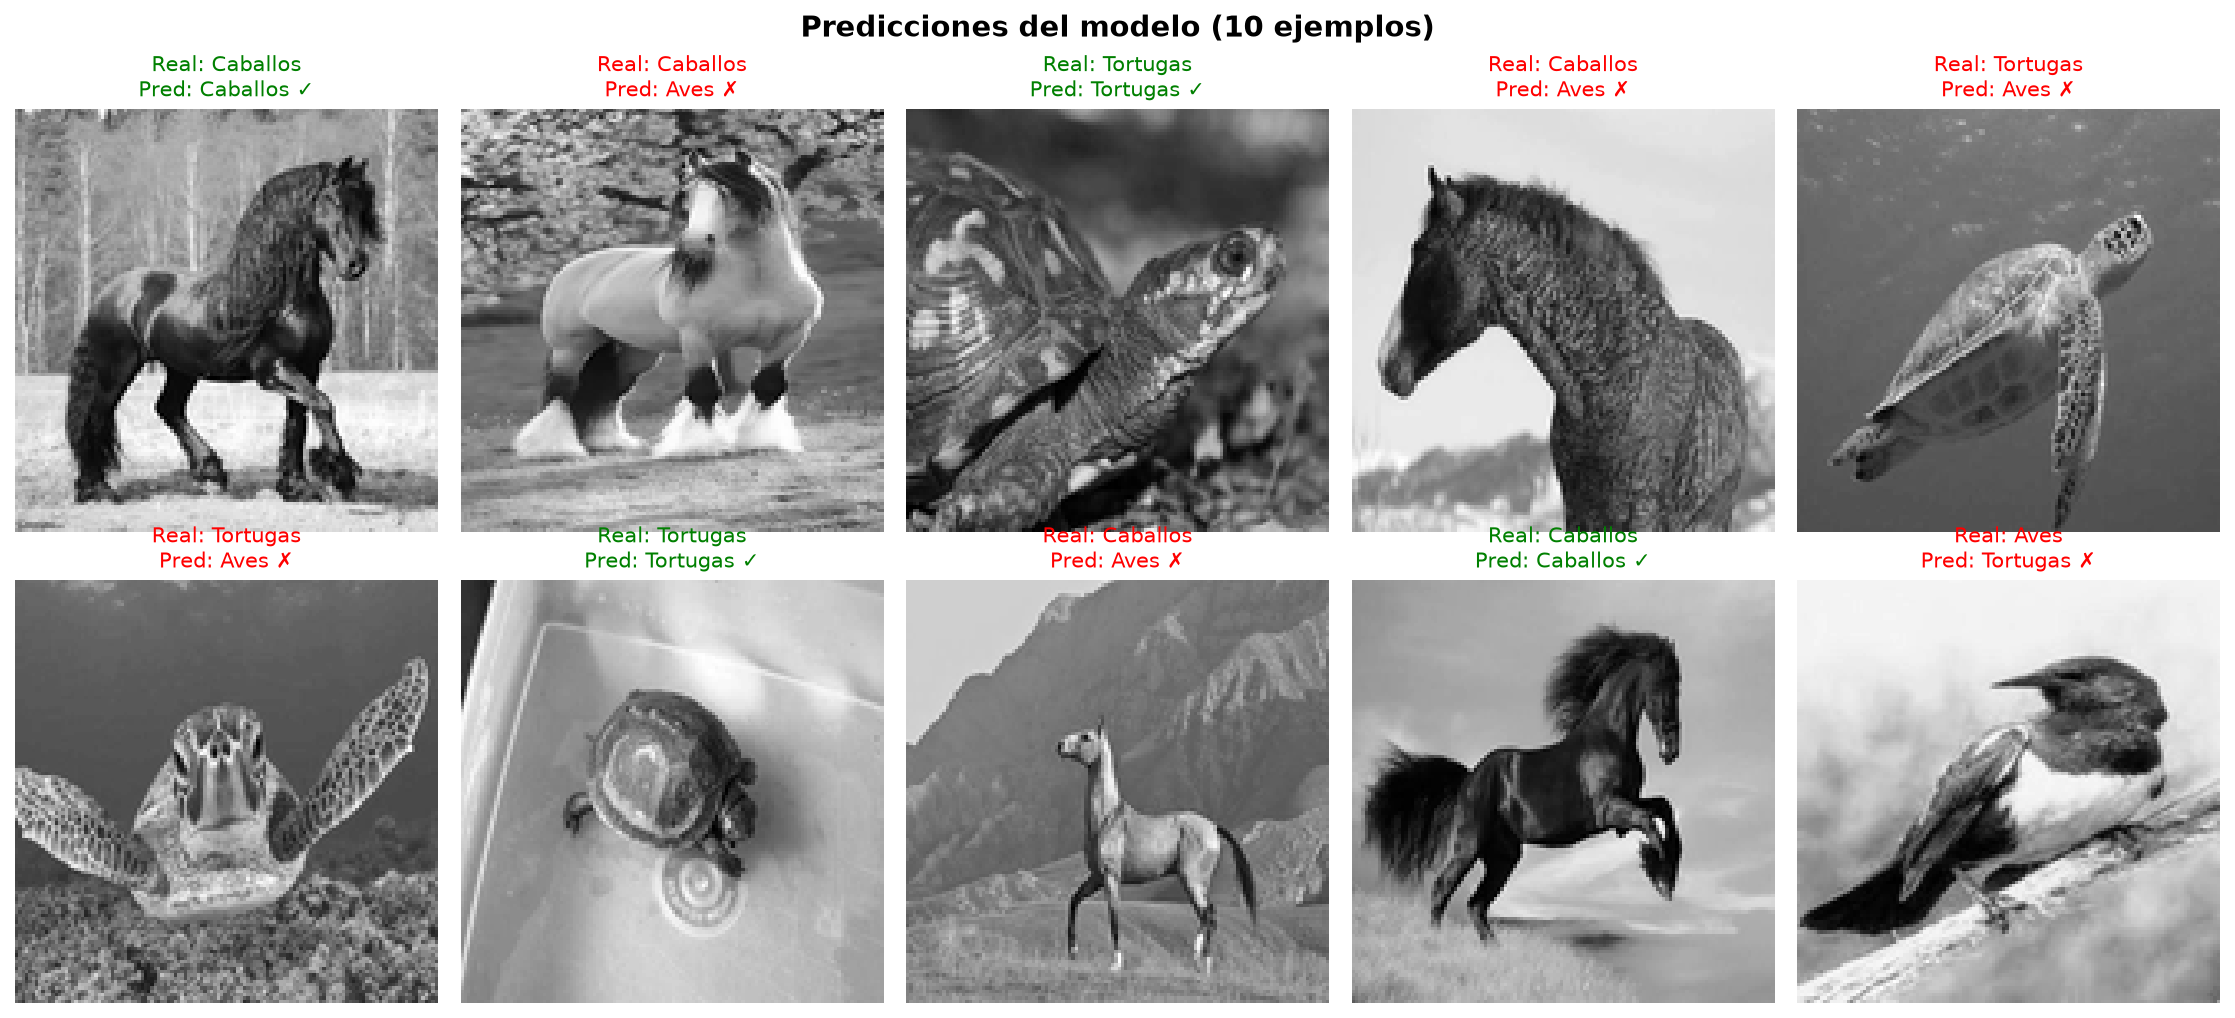
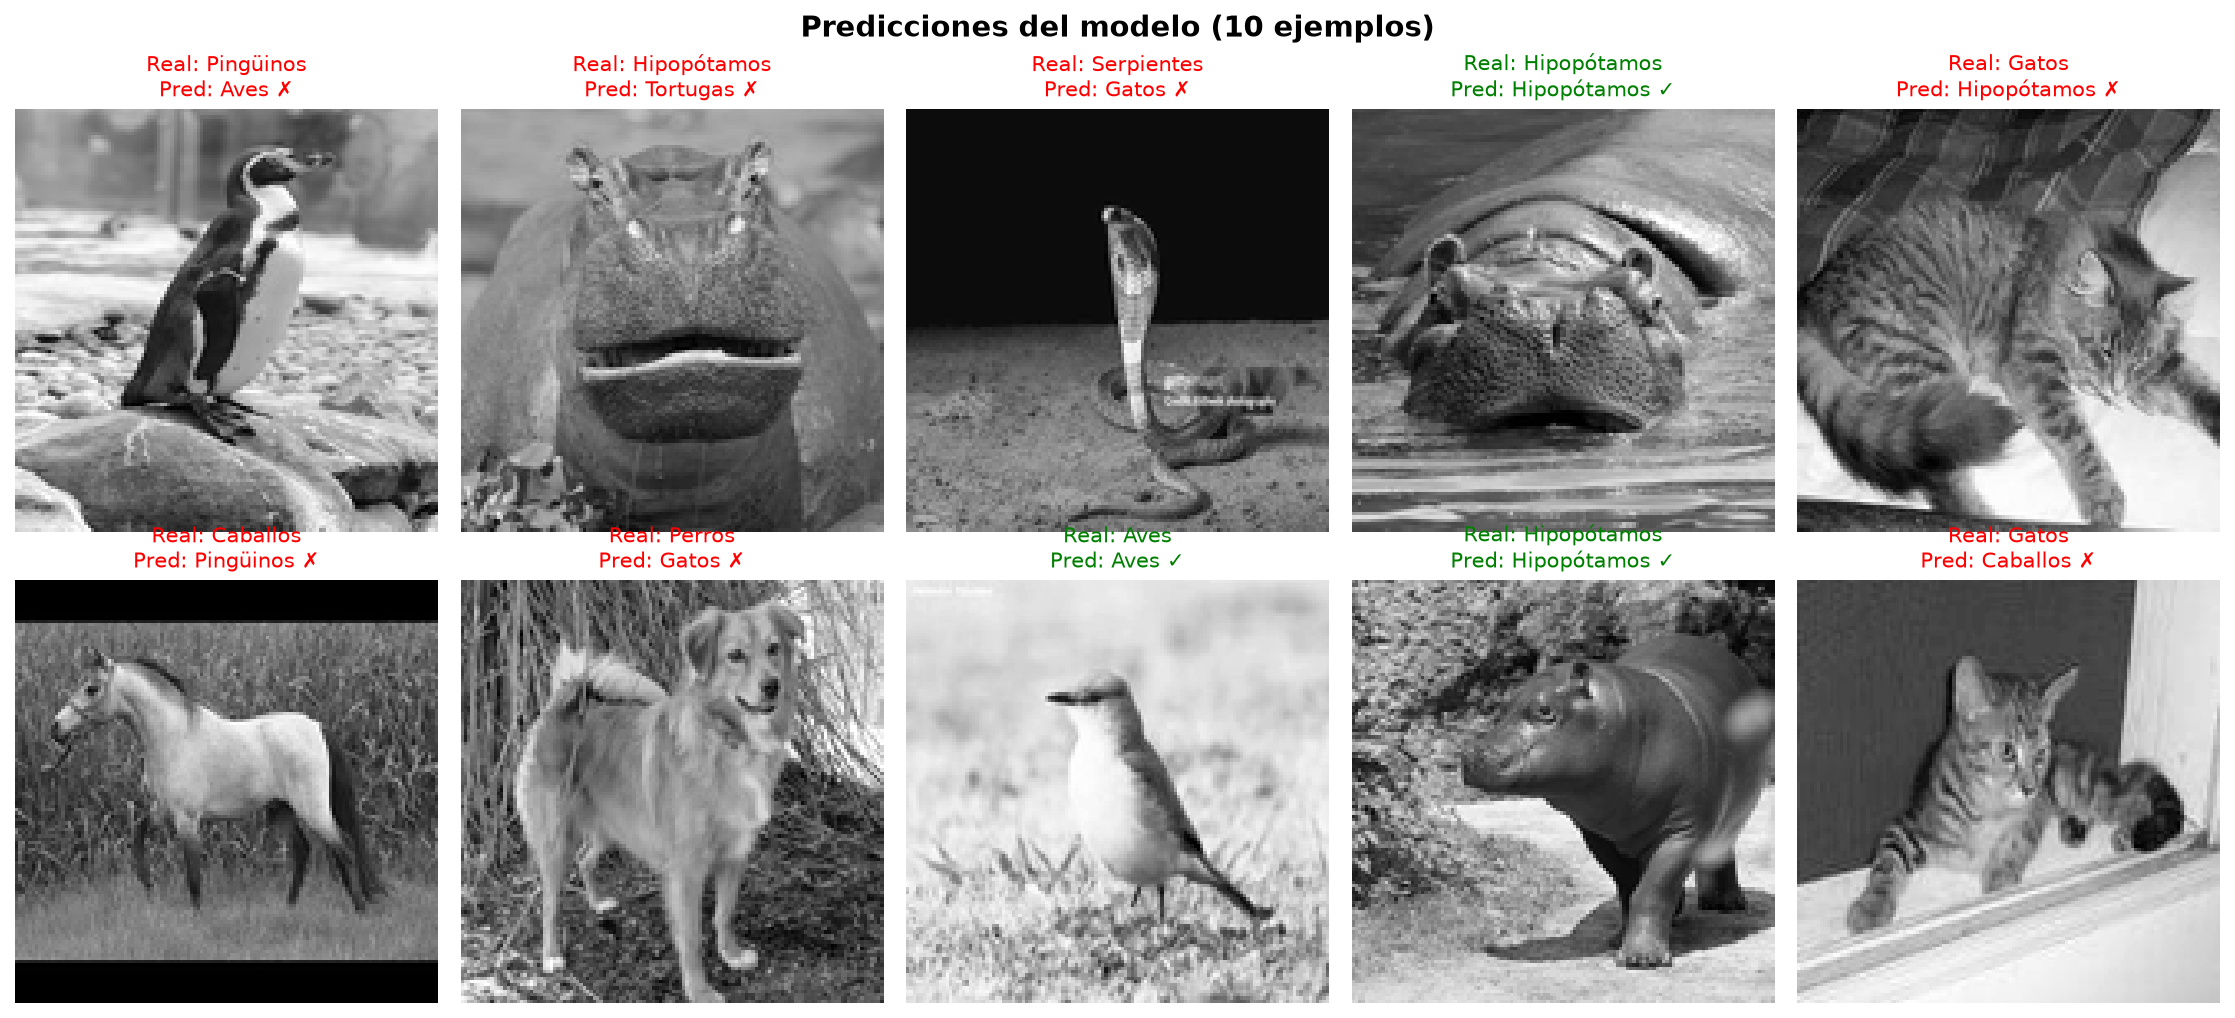
nueva prueba con 9 clases

diff --git a/tp_4/part_1.py b/tp_4/part_1.py
@@ -125,7 +125,7 @@ def tp4():
     LOSS = "categorical_crossentropy"
 
     # ─── Modelo ───────────────────────────────────────────────────
-    RECUPERAR = True  # True → carga modelo guardado
+    RECUPERAR = False  # True → carga modelo guardado
     NOMBRE_MODELO = "cnn_clasificador"
 
     n_clases = len(CLASES)

diff --git a/tp_4/pruebas.md b/tp_4/pruebas.md
@@ -218,3 +218,56 @@ Accuracy (val) : 67.50%
 Loss (val)     : 3.4651
 
 ---
+
+## PRUEBA 8
+
+```
+CONFIGURACION 8
+KERNEL = [5, 3, 3]
+```
+
+Reporte de Clasificación:
+              precision    recall  f1-score   support
+
+       Gatos       0.65      0.89      0.76        19
+        Aves       0.56      0.56      0.56        18
+    Caballos       0.83      0.50      0.62        20
+    Tortugas       0.71      0.74      0.72        23
+
+    accuracy                           0.68        80
+   macro avg       0.69      0.67      0.66        80
+weighted avg       0.69      0.68      0.67        80
+
+Accuracy (val) : 67.50%
+Loss (val)     : 3.4651
+
+---
+
+
+## PRUEBA 9 - (se agregan todas las clases que subio la cursada)
+
+```
+CONFIGURACION 8
+SE AGREGAN LAS 9 CLASES
+```
+
+Reporte de Clasificación:
+              precision    recall  f1-score   support
+
+       Gatos       0.33      0.29      0.31        24
+        Aves       0.22      0.29      0.25        17
+    Caballos       0.33      0.40      0.36        20
+    Tortugas       0.47      0.44      0.46        18
+     Conejos       0.46      0.59      0.52        22
+ Hipopótamos       0.40      0.27      0.32        22
+      Perros       0.15      0.25      0.19        16
+   Pingüinos       0.11      0.04      0.06        25
+  Serpientes       0.56      0.56      0.56        16
+
+    accuracy                           0.34       180
+   macro avg       0.34      0.35      0.34       180
+weighted avg       0.33      0.34      0.33       180
+
+  Accuracy (val) : 33.89%
+  Loss (val)     : 9.5001
+---
